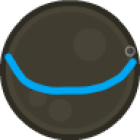
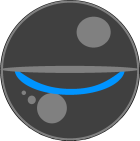
Updated Sprites and Naming Schemes

Changed region(s): [[0.0, 0.0, 1.0, 1.0]]

diff --git a/GraphicalTestApp/Menu.cs b/GraphicalTestApp/Menu.cs
@@ -36,10 +36,10 @@ namespace GraphicalTestApp
         public Menu()
         {
             //The four skins you're allowed to pick from
-            _skins[0] = "GFX/Toga.png";
-            _skins[1] = "GFX/Carter.png";
-            _skins[2] = "GFX/Jax.png";
-            _skins[3] = "GFX/Hunter.png";
+            _skins[0] = "GFX/StarShip1.png";
+            _skins[1] = "GFX/StarShip2.png";
+            _skins[2] = "GFX/StarShip3.png";
+            _skins[3] = "GFX/StarShip4.png";
 
             //loads in the default skin
             _spriteDisplay = new Sprite(_skins[0]);
@@ -65,7 +65,7 @@ namespace GraphicalTestApp
             _menuText[1] = "Start";
             _menuText[2] = "Select Stage";
             _menuText[3] = "Customize";
-            _menuText[4] = "Weenie Mode";
+            _menuText[4] = "Infinite HP";
             //Stage Selecter
             _menuText[5] = "Select Stage";
             _menuText[6] = "Next Stage";
